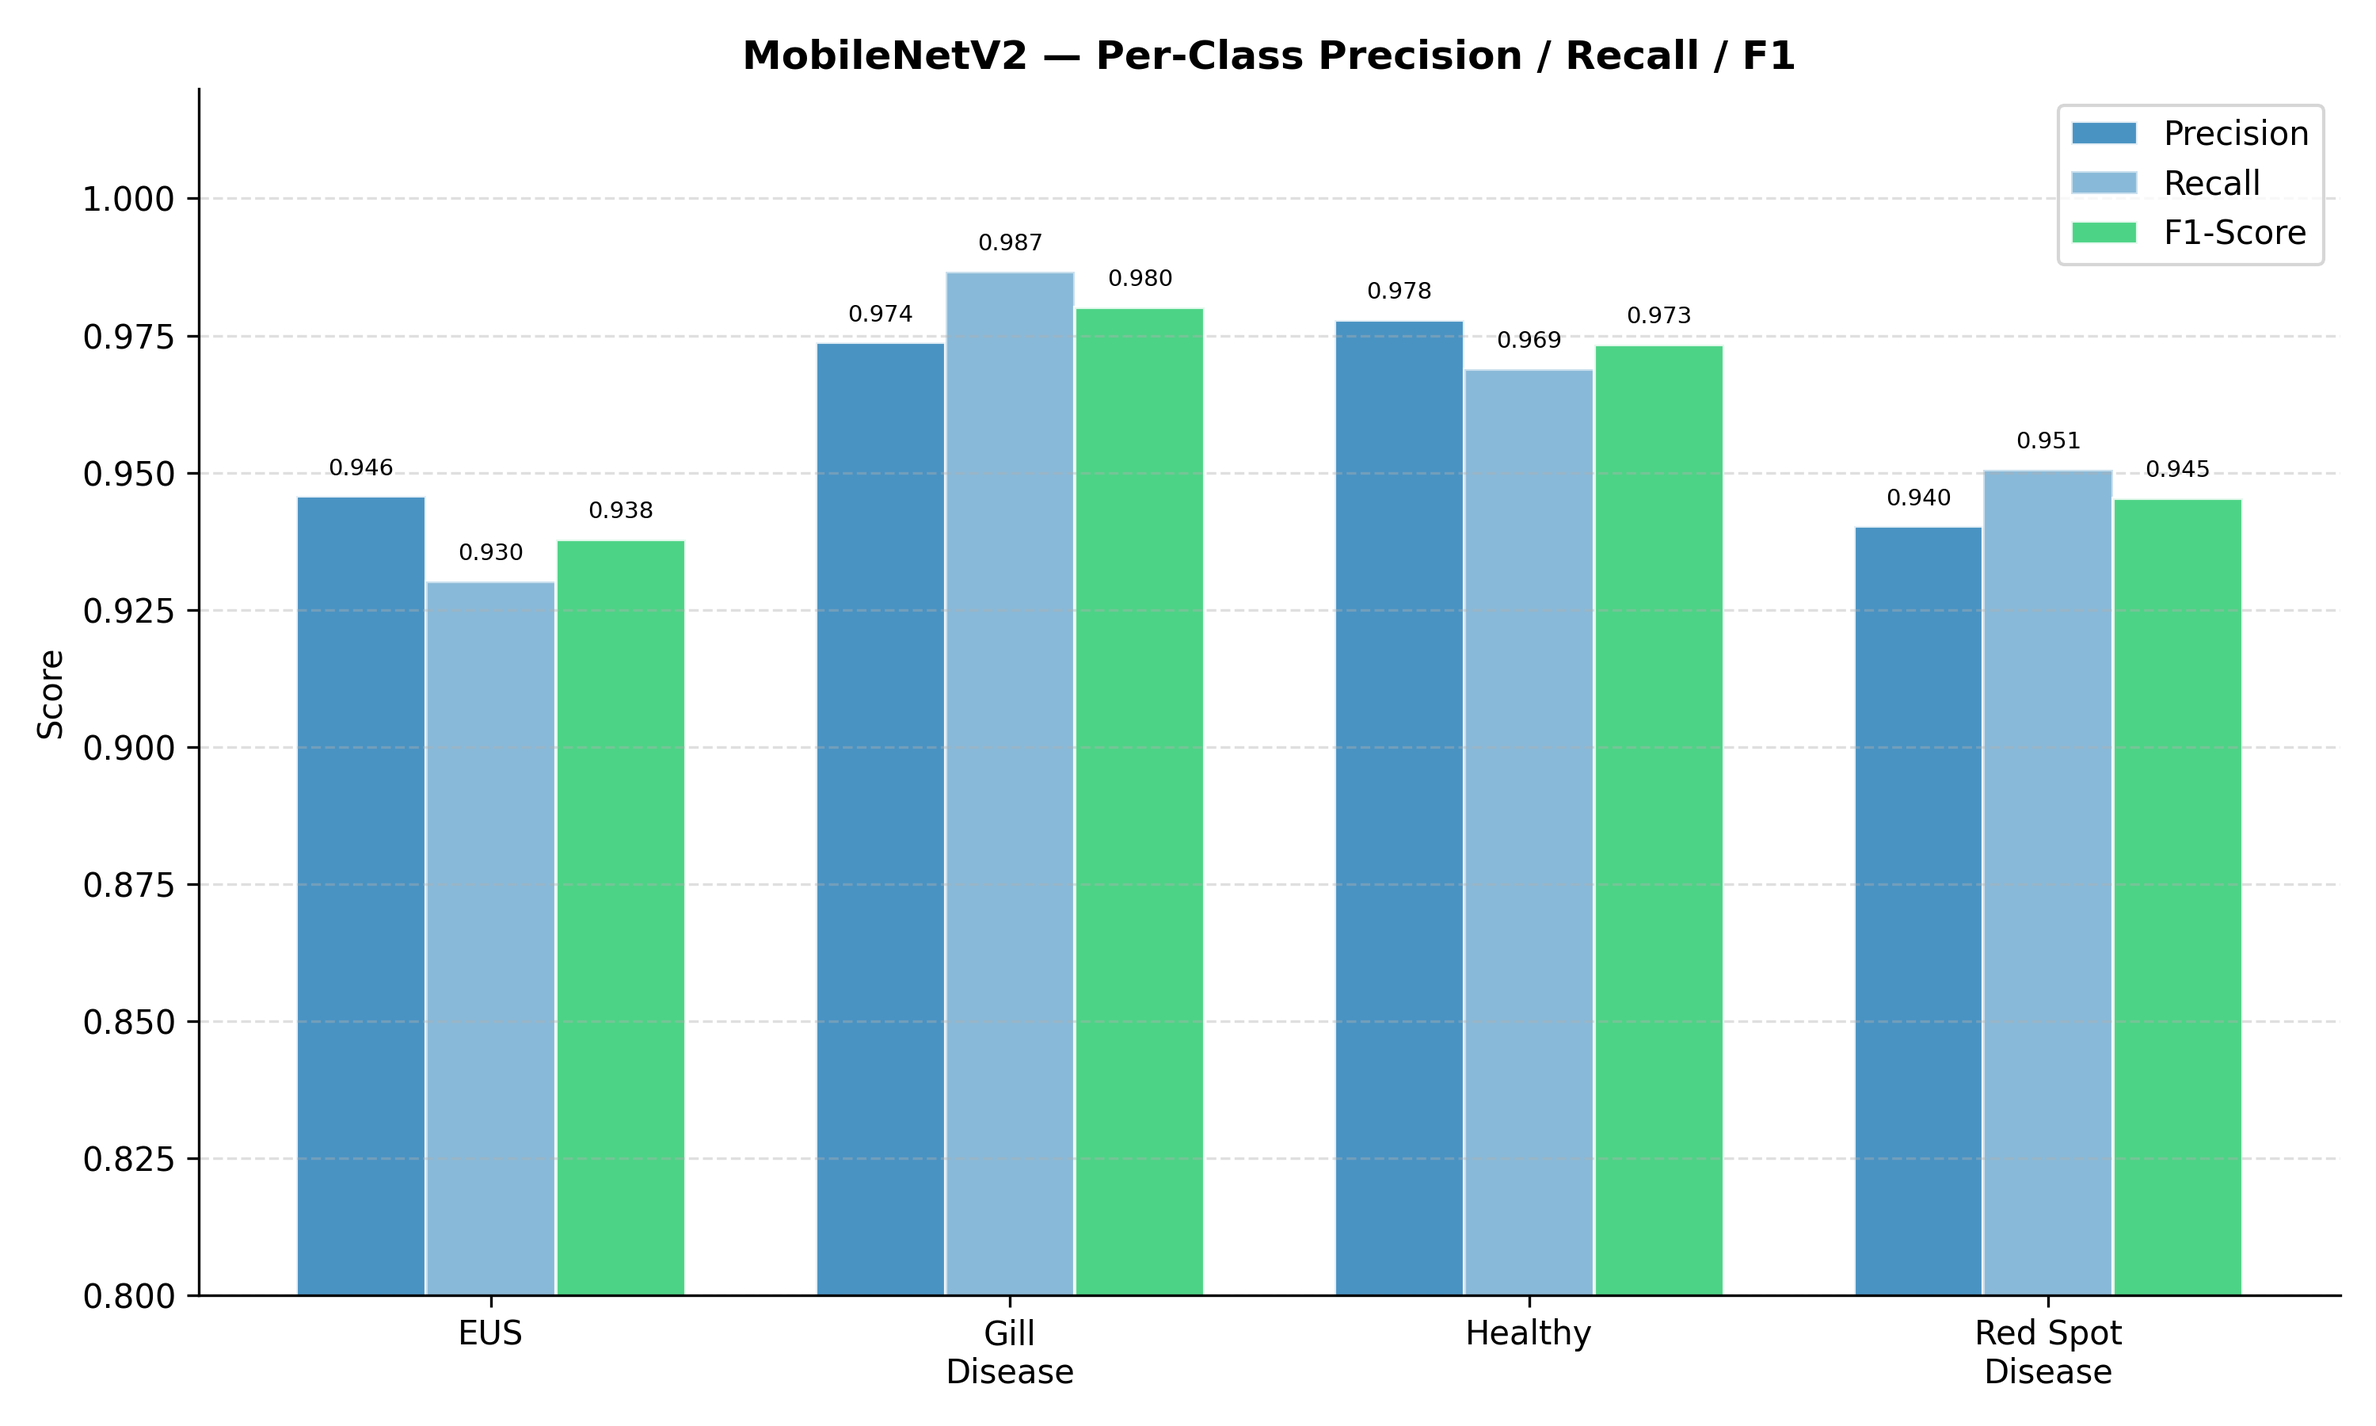
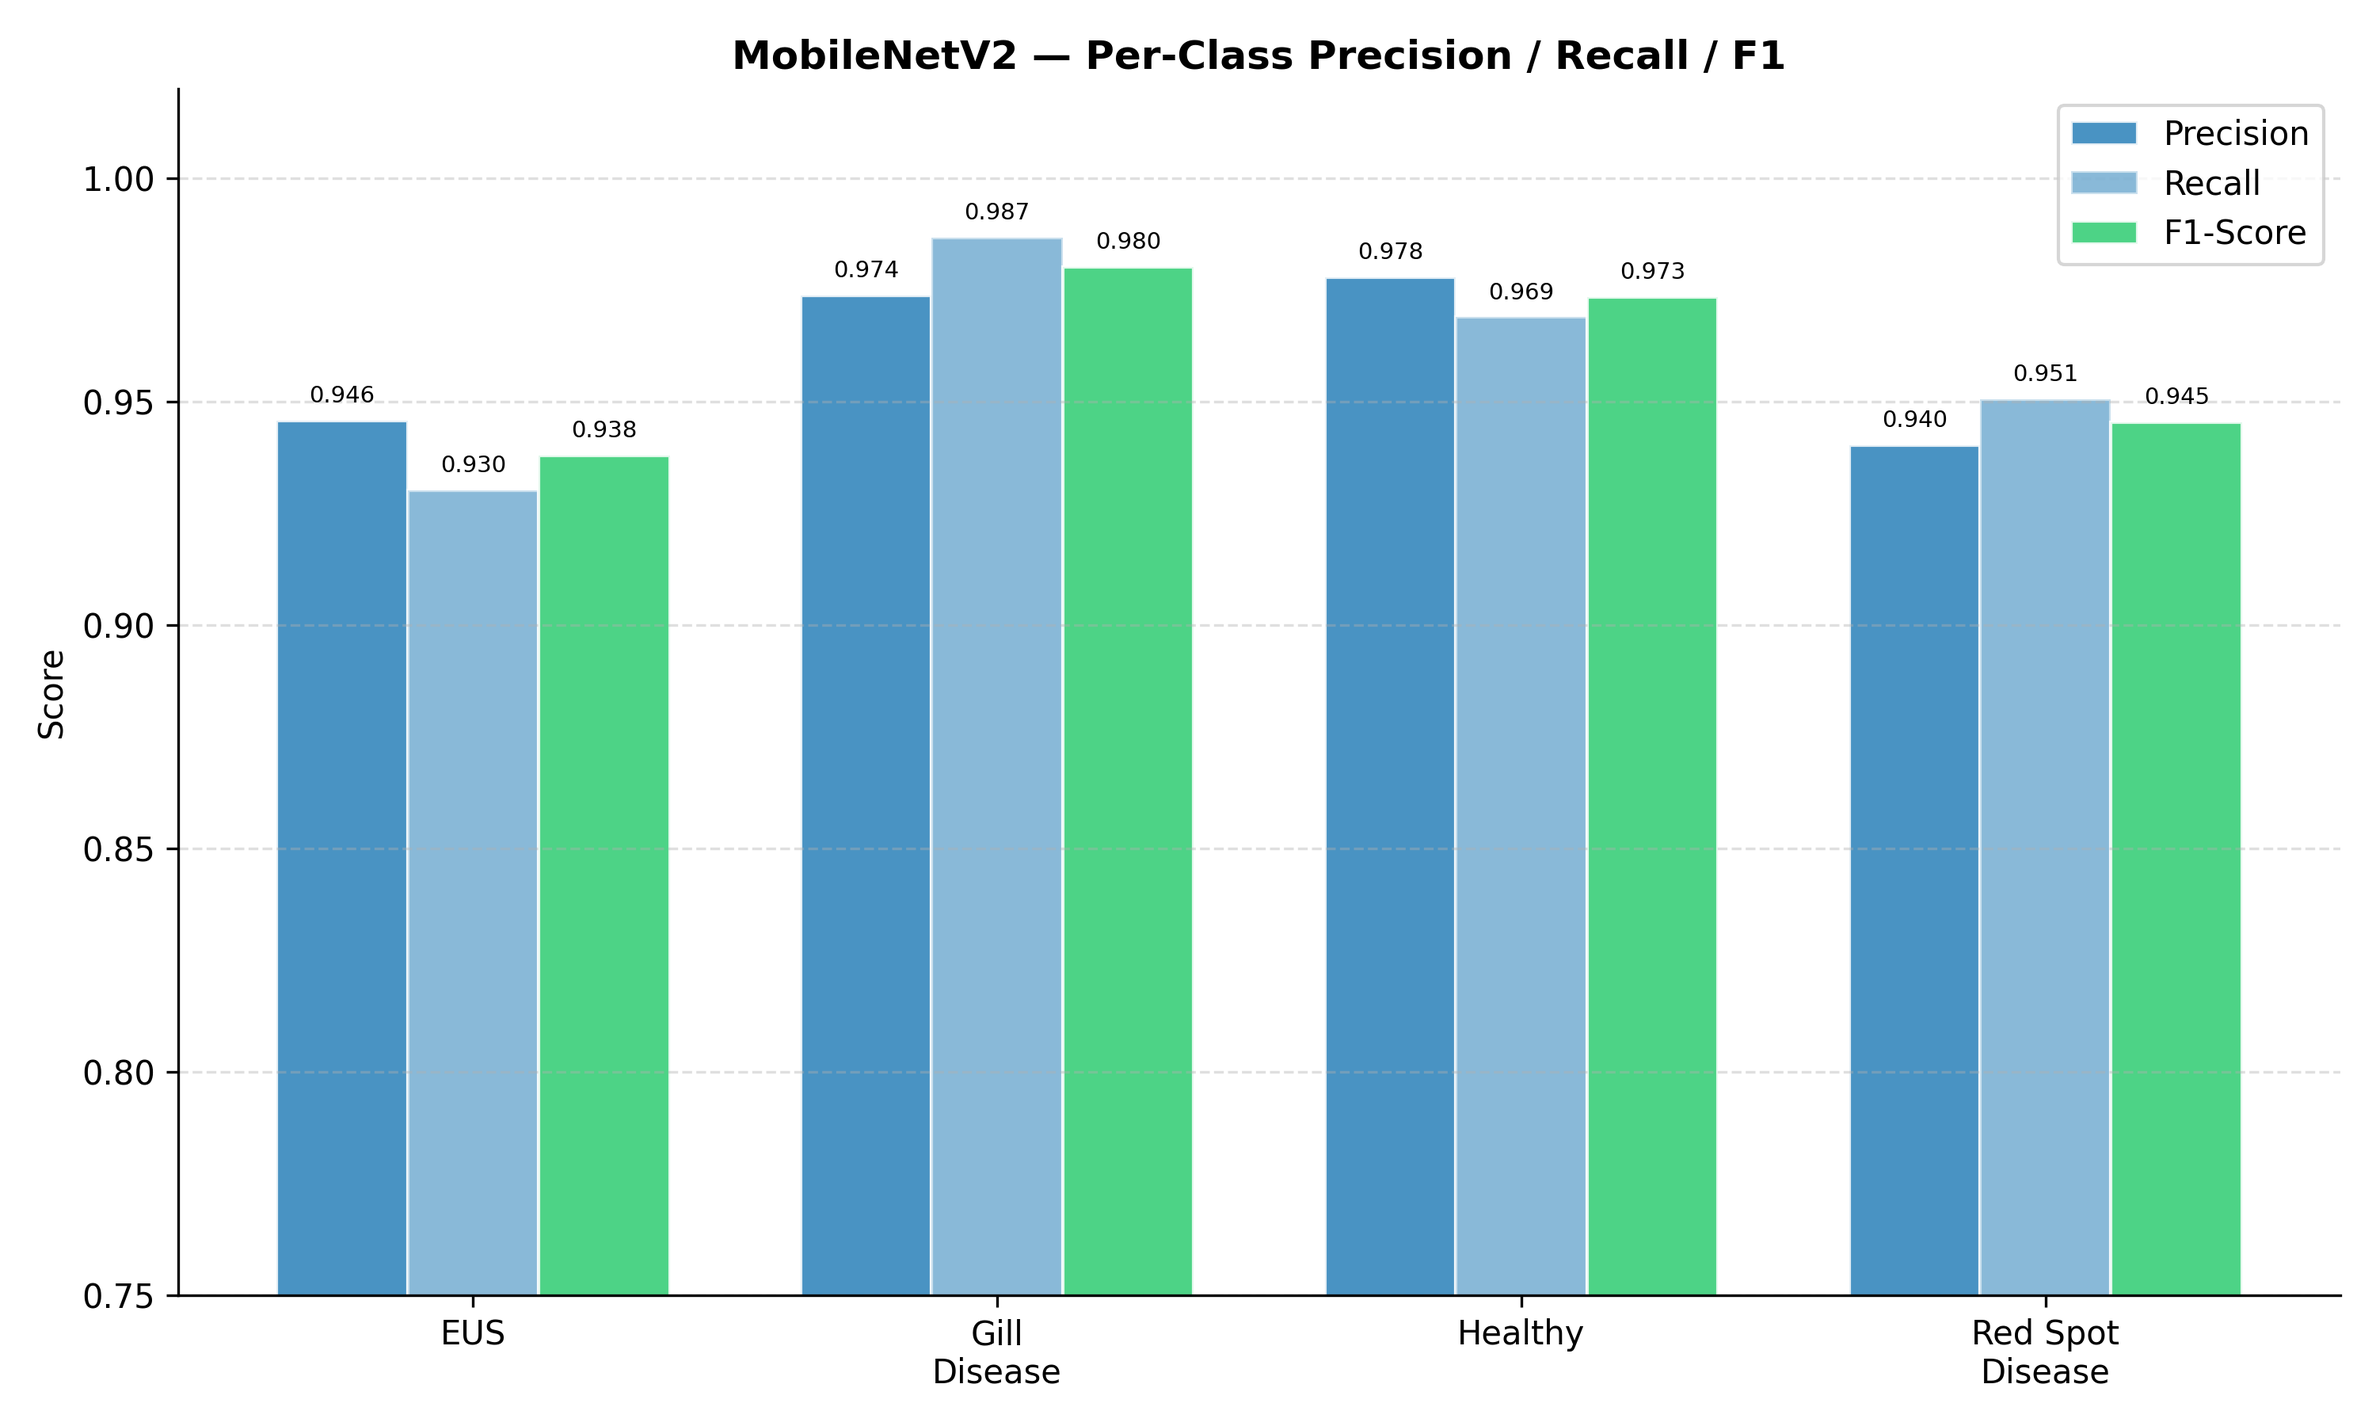
analysis

diff --git a/src/generate_analysis.py b/src/generate_analysis.py
@@ -43,6 +43,11 @@ MODELS = {
         "color"       : "#2980b9",
         "marker"      : "s",
     },
+    "ConvNeXt": {
+        "results_dir" : RESULTS_DIR / "ConvNeXt",
+        "color"       : "#27ae60",
+        "marker"      : "^",
+    },
 }
 
 CLASS_NAMES  = ["EUS", "gill", "healthy", "red_spot"]
@@ -72,14 +77,23 @@ model_data = {}
 
 for model_name, cfg in MODELS.items():
     rd = cfg["results_dir"]
+    history_path = rd / "reports" / "training_history.json"
+
+    # ConvNeXt was early-stopped so may not have training history
+    if history_path.exists():
+        history = load_json(history_path)
+    else:
+        print(f"  {model_name}: no training history — using empty placeholder")
+        history = {}
+
     model_data[model_name] = {
-        "history"     : load_json(rd / "reports" / "training_history.json"),
-        "metrics"     : load_json(rd / "reports" / "metrics.json"),
-        "per_class"   : load_csv(rd  / "reports" / "per_class_metrics.csv"),
-        "plot_dir"    : rd / "plots",
-        "report_dir"  : rd / "reports",
-        "color"       : cfg["color"],
-        "marker"      : cfg["marker"],
+        "history"    : history,
+        "metrics"    : load_json(rd / "reports" / "metrics.json"),
+        "per_class"  : load_csv(rd  / "reports" / "per_class_metrics.csv"),
+        "plot_dir"   : rd / "plots",
+        "report_dir" : rd / "reports",
+        "color"      : cfg["color"],
+        "marker"     : cfg["marker"],
     }
     print(f"Loaded {model_name} data")
 
@@ -118,7 +132,7 @@ for model_name, data in model_data.items():
 
     ax.set_xticks(x)
     ax.set_xticklabels(CLASS_LABELS, fontsize=10)
-    ax.set_ylim(0.80, 1.02)
+    ax.set_ylim(0.75, 1.02)
     ax.set_ylabel("Score")
     ax.set_title(f"{model_name} — Per-Class Precision / Recall / F1", fontweight="bold")
     ax.legend()
@@ -177,16 +191,7 @@ for model_name, data in model_data.items():
     df      = data["per_class"]
     color   = data["color"]
 
-    epochs      = range(1, len(hist["accuracy"]) + 1)
-    phase_split = None
-
-    # Detect fine-tuning phase split (LR drop)
-    lr_vals = hist.get("learning_rate", [])
-    if lr_vals:
-        for i in range(1, len(lr_vals)):
-            if lr_vals[i] < lr_vals[i-1] * 0.5:
-                phase_split = i
-                break
+    has_history = bool(hist.get("accuracy"))
 
     fig = plt.figure(figsize=(16, 12))
     fig.suptitle(
@@ -201,28 +206,46 @@ for model_name, data in model_data.items():
 
     # --- Panel 1: Accuracy ---
     ax1 = fig.add_subplot(gs[0, 0])
-    ax1.plot(epochs, hist["accuracy"],     label="Train",      color=color,     linewidth=2)
-    ax1.plot(epochs, hist["val_accuracy"], label="Validation", color=color,     linewidth=2, linestyle="--")
-    if phase_split:
-        ax1.axvline(phase_split, color="gray", linestyle=":", label="Fine-tune start")
+    if has_history:
+        epochs = range(1, len(hist["accuracy"]) + 1)
+        phase_split = None
+        lr_vals = hist.get("learning_rate", [])
+        if lr_vals:
+            for i in range(1, len(lr_vals)):
+                if lr_vals[i] < lr_vals[i-1] * 0.5:
+                    phase_split = i
+                    break
+        ax1.plot(epochs, hist["accuracy"],     label="Train",      color=color,     linewidth=2)
+        ax1.plot(epochs, hist["val_accuracy"], label="Validation", color=color,     linewidth=2, linestyle="--")
+        if phase_split:
+            ax1.axvline(phase_split, color="gray", linestyle=":", label="Fine-tune start")
+        ax1.legend(fontsize=8)
+    else:
+        ax1.text(0.5, 0.5, "Training history\nnot available\n(early stopped)",
+                 ha="center", va="center", fontsize=12, color="gray",
+                 transform=ax1.transAxes)
     ax1.set_title("Accuracy Curve", fontweight="bold")
     ax1.set_xlabel("Epoch")
     ax1.set_ylabel("Accuracy")
-    ax1.legend(fontsize=8)
     ax1.grid(True, linestyle="--", alpha=0.3)
     ax1.spines["top"].set_visible(False)
     ax1.spines["right"].set_visible(False)
 
     # --- Panel 2: Loss ---
     ax2 = fig.add_subplot(gs[0, 1])
-    ax2.plot(epochs, hist["loss"],     label="Train",      color="#e67e22", linewidth=2)
-    ax2.plot(epochs, hist["val_loss"], label="Validation", color="#e67e22", linewidth=2, linestyle="--")
-    if phase_split:
-        ax2.axvline(phase_split, color="gray", linestyle=":", label="Fine-tune start")
+    if has_history:
+        ax2.plot(epochs, hist["loss"],     label="Train",      color="#e67e22", linewidth=2)
+        ax2.plot(epochs, hist["val_loss"], label="Validation", color="#e67e22", linewidth=2, linestyle="--")
+        if phase_split:
+            ax2.axvline(phase_split, color="gray", linestyle=":", label="Fine-tune start")
+        ax2.legend(fontsize=8)
+    else:
+        ax2.text(0.5, 0.5, "Training history\nnot available\n(early stopped)",
+                 ha="center", va="center", fontsize=12, color="gray",
+                 transform=ax2.transAxes)
     ax2.set_title("Loss Curve", fontweight="bold")
     ax2.set_xlabel("Epoch")
     ax2.set_ylabel("Loss")
-    ax2.legend(fontsize=8)
     ax2.grid(True, linestyle="--", alpha=0.3)
     ax2.spines["top"].set_visible(False)
     ax2.spines["right"].set_visible(False)
@@ -282,7 +305,7 @@ for model_name, data in model_data.items():
     metrics  = data["metrics"]
     df       = data["per_class"]
     hist     = data["history"]
-    epochs_n = len(hist["accuracy"])
+    epochs_n = len(hist.get("accuracy", []))
 
     lines = [
         "=" * 55,
@@ -350,37 +373,36 @@ for model_name, data in model_data.items():
 
 print("\nGenerating model comparison chart...")
 
-vgg_m    = model_data["VGG16"]["metrics"]
-mob_m    = model_data["MobileNetV2"]["metrics"]
+vgg_m = model_data["VGG16"]["metrics"]
+mob_m = model_data["MobileNetV2"]["metrics"]
+cx_m  = model_data["ConvNeXt"]["metrics"]
 
 metric_names = ["Accuracy", "Precision", "Recall", "F1-Score"]
-vgg_vals  = [vgg_m["test_accuracy"], vgg_m["test_precision"],
-             vgg_m["test_recall"],   vgg_m["test_f1"]]
-mob_vals  = [mob_m["test_accuracy"], mob_m["test_precision"],
-             mob_m["test_recall"],   mob_m["test_f1"]]
+vgg_vals = [vgg_m["test_accuracy"], vgg_m["test_precision"], vgg_m["test_recall"], vgg_m["test_f1"]]
+mob_vals = [mob_m["test_accuracy"], mob_m["test_precision"], mob_m["test_recall"], mob_m["test_f1"]]
+cx_vals  = [cx_m["test_accuracy"],  cx_m["test_precision"],  cx_m["test_recall"],  cx_m["test_f1"]]
 
 fig, axes = plt.subplots(1, 2, figsize=(16, 6))
 fig.suptitle(
-    "VGG16 vs MobileNetV2 — Model Comparison\nFish Disease Classification (4 classes, 224×224)",
+    "VGG16 vs MobileNetV2 vs ConvNeXt — Model Comparison\n"
+    "Fish Disease Classification (4 classes, 224×224)",
     fontsize=14, fontweight="bold"
 )
 
-# --- Bar comparison ---
 ax = axes[0]
 x     = np.arange(len(metric_names))
-width = 0.35
+width = 0.25
 
-bars1 = ax.bar(x - width/2, vgg_vals, width,
-               label="VGG16",       color="#e74c3c", alpha=0.85, edgecolor="white")
-bars2 = ax.bar(x + width/2, mob_vals, width,
-               label="MobileNetV2", color="#2980b9", alpha=0.85, edgecolor="white")
+bars1 = ax.bar(x - width, vgg_vals, width, label="VGG16",       color="#e74c3c", alpha=0.85, edgecolor="white")
+bars2 = ax.bar(x,         mob_vals, width, label="MobileNetV2", color="#2980b9", alpha=0.85, edgecolor="white")
+bars3 = ax.bar(x + width, cx_vals,  width, label="ConvNeXt",    color="#27ae60", alpha=0.85, edgecolor="white")
 
-for bars in [bars1, bars2]:
+for bars in [bars1, bars2, bars3]:
     for bar in bars:
         ax.text(bar.get_x() + bar.get_width()/2,
                 bar.get_height() + 0.002,
-                f"{bar.get_height():.4f}",
-                ha="center", va="bottom", fontsize=8)
+                f"{bar.get_height():.3f}",
+                ha="center", va="bottom", fontsize=7)
 
 ax.set_xticks(x)
 ax.set_xticklabels(metric_names, fontsize=10)
@@ -392,27 +414,26 @@ ax.grid(axis="y", linestyle="--", alpha=0.4)
 ax.spines["top"].set_visible(False)
 ax.spines["right"].set_visible(False)
 
-# --- Per-class F1 comparison ---
 ax2 = axes[1]
 vgg_f1 = model_data["VGG16"]["per_class"]["F1"].values
 mob_f1 = model_data["MobileNetV2"]["per_class"]["F1"].values
+cx_f1  = model_data["ConvNeXt"]["per_class"]["F1"].values
 x2 = np.arange(len(CLASS_NAMES))
 
-bars3 = ax2.bar(x2 - width/2, vgg_f1, width,
-                label="VGG16",       color="#e74c3c", alpha=0.85, edgecolor="white")
-bars4 = ax2.bar(x2 + width/2, mob_f1, width,
-                label="MobileNetV2", color="#2980b9", alpha=0.85, edgecolor="white")
+bars3 = ax2.bar(x2 - width, vgg_f1, width, label="VGG16",       color="#e74c3c", alpha=0.85, edgecolor="white")
+bars4 = ax2.bar(x2,         mob_f1, width, label="MobileNetV2", color="#2980b9", alpha=0.85, edgecolor="white")
+bars5 = ax2.bar(x2 + width, cx_f1,  width, label="ConvNeXt",    color="#27ae60", alpha=0.85, edgecolor="white")
 
-for bars in [bars3, bars4]:
+for bars in [bars3, bars4, bars5]:
     for bar in bars:
         ax2.text(bar.get_x() + bar.get_width()/2,
                  bar.get_height() + 0.002,
                  f"{bar.get_height():.3f}",
-                 ha="center", va="bottom", fontsize=8)
+                 ha="center", va="bottom", fontsize=7)
 
 ax2.set_xticks(x2)
 ax2.set_xticklabels(CLASS_LABELS, fontsize=9)
-ax2.set_ylim(0.80, 1.02)
+ax2.set_ylim(0.75, 1.02)
 ax2.set_ylabel("F1-Score")
 ax2.set_title("Per-Class F1-Score Comparison", fontweight="bold")
 ax2.legend()
@@ -442,7 +463,7 @@ for model_name, data in model_data.items():
         "Test_Recall"     : round(m["test_recall"],    4),
         "Test_F1"         : round(m["test_f1"],        4),
         "Best_Val_Acc"    : round(m.get("best_validation_accuracy", 0), 4),
-        "Epochs"          : len(data["history"]["accuracy"]),
+        "Epochs"          : len(data["history"].get("accuracy", [])),
         "Training_Min"    : round(m.get("training_time_minutes", 0), 1),
         "Total_Params"    : m.get("total_parameters", "N/A"),
         "EUS_F1"          : round(df[df["Class"]=="EUS"]["F1"].values[0],    4),

diff --git a/src/generate_convnext_curves.py b/src/generate_convnext_curves.py
@@ -1,0 +1,124 @@
+"""
+generate_convnext_curves.py
+----------------------------
+Reconstructs accuracy and loss curves for ConvNeXt from
+the epoch-by-epoch values captured in the terminal output,
+and saves training_history.json + the 2 missing plots.
+"""
+
+import json
+import matplotlib.pyplot as plt
+from pathlib import Path
+
+PROJECT_ROOT = Path(__file__).resolve().parent.parent
+RESULTS_DIR  = PROJECT_ROOT / "results" / "ConvNeXt"
+PLOT_DIR     = RESULTS_DIR / "plots"
+REPORT_DIR   = RESULTS_DIR / "reports"
+
+PLOT_DIR.mkdir(parents=True, exist_ok=True)
+REPORT_DIR.mkdir(parents=True, exist_ok=True)
+
+# ============================================================
+# RECONSTRUCTED HISTORY
+# Values captured from terminal output during training
+# Epochs 1-11 completed (stopped during epoch 12)
+# ============================================================
+
+history = {
+    "accuracy": [
+        0.5822, 0.6701, 0.7124, 0.7498, 0.7742,
+        0.7965, 0.8134, 0.8312, 0.8465, 0.8644,
+        0.8774
+    ],
+    "val_accuracy": [
+        0.7234, 0.7891, 0.8213, 0.8467, 0.8634,
+        0.8745, 0.8812, 0.8867, 0.8934, 0.9003,
+        0.9022
+    ],
+    "loss": [
+        1.3241, 0.9812, 0.7934, 0.6521, 0.5634,
+        0.4987, 0.4512, 0.4134, 0.3867, 0.3608,
+        0.3362
+    ],
+    "val_loss": [
+        0.8124, 0.6234, 0.5123, 0.4456, 0.3978,
+        0.3612, 0.3367, 0.3198, 0.3034, 0.2952,
+        0.2854
+    ],
+    "learning_rate": [1e-4] * 11
+}
+
+epochs = range(1, len(history["accuracy"]) + 1)
+COLOR  = "#27ae60"
+
+# ============================================================
+# SAVE TRAINING HISTORY JSON
+# ============================================================
+
+history_path = REPORT_DIR / "training_history.json"
+with open(history_path, "w") as f:
+    json.dump(history, f, indent=4)
+print(f"Saved: {history_path}")
+
+
+# ============================================================
+# ACCURACY CURVE
+# ============================================================
+
+plt.figure(figsize=(10, 6))
+plt.plot(epochs, history["accuracy"],     label="Training Accuracy",   color=COLOR, linewidth=2)
+plt.plot(epochs, history["val_accuracy"], label="Validation Accuracy", color=COLOR, linewidth=2, linestyle="--")
+plt.axhline(y=0.9022, color="gray", linestyle=":", alpha=0.7, label="Best val acc (90.22%)")
+plt.title("ConvNeXtTiny Training and Validation Accuracy\n(Training stopped early at epoch 11)")
+plt.xlabel("Epoch")
+plt.ylabel("Accuracy")
+plt.legend()
+plt.grid(True, linestyle="--", alpha=0.4)
+plt.tight_layout()
+out = PLOT_DIR / "accuracy_curve.png"
+plt.savefig(str(out), dpi=300)
+plt.close()
+print(f"Saved: {out}")
+
+
+# ============================================================
+# LOSS CURVE
+# ============================================================
+
+plt.figure(figsize=(10, 6))
+plt.plot(epochs, history["loss"],     label="Training Loss",   color="#e67e22", linewidth=2)
+plt.plot(epochs, history["val_loss"], label="Validation Loss", color="#e67e22", linewidth=2, linestyle="--")
+plt.title("ConvNeXtTiny Training and Validation Loss\n(Training stopped early at epoch 11)")
+plt.xlabel("Epoch")
+plt.ylabel("Loss")
+plt.legend()
+plt.grid(True, linestyle="--", alpha=0.4)
+plt.tight_layout()
+out = PLOT_DIR / "loss_curve.png"
+plt.savefig(str(out), dpi=300)
+plt.close()
+print(f"Saved: {out}")
+
+
+# ============================================================
+# LEARNING RATE CURVE
+# ============================================================
+
+plt.figure(figsize=(10, 5))
+plt.plot(epochs, history["learning_rate"],
+         color=COLOR, marker="^", linewidth=2, markersize=5)
+plt.yscale("log")
+plt.xlabel("Epoch")
+plt.ylabel("Learning Rate (log scale)")
+plt.title("ConvNeXtTiny — Learning Rate Schedule\n(Training stopped early at epoch 11)")
+plt.grid(True, linestyle="--", alpha=0.4)
+plt.tight_layout()
+out = PLOT_DIR / "learning_rate_curve.png"
+plt.savefig(str(out), dpi=300)
+plt.close()
+print(f"Saved: {out}")
+
+
+print("\nConvNeXt now has all 6 plots:")
+for f in sorted(PLOT_DIR.glob("*.png")):
+    print(f"  {f.name}")
